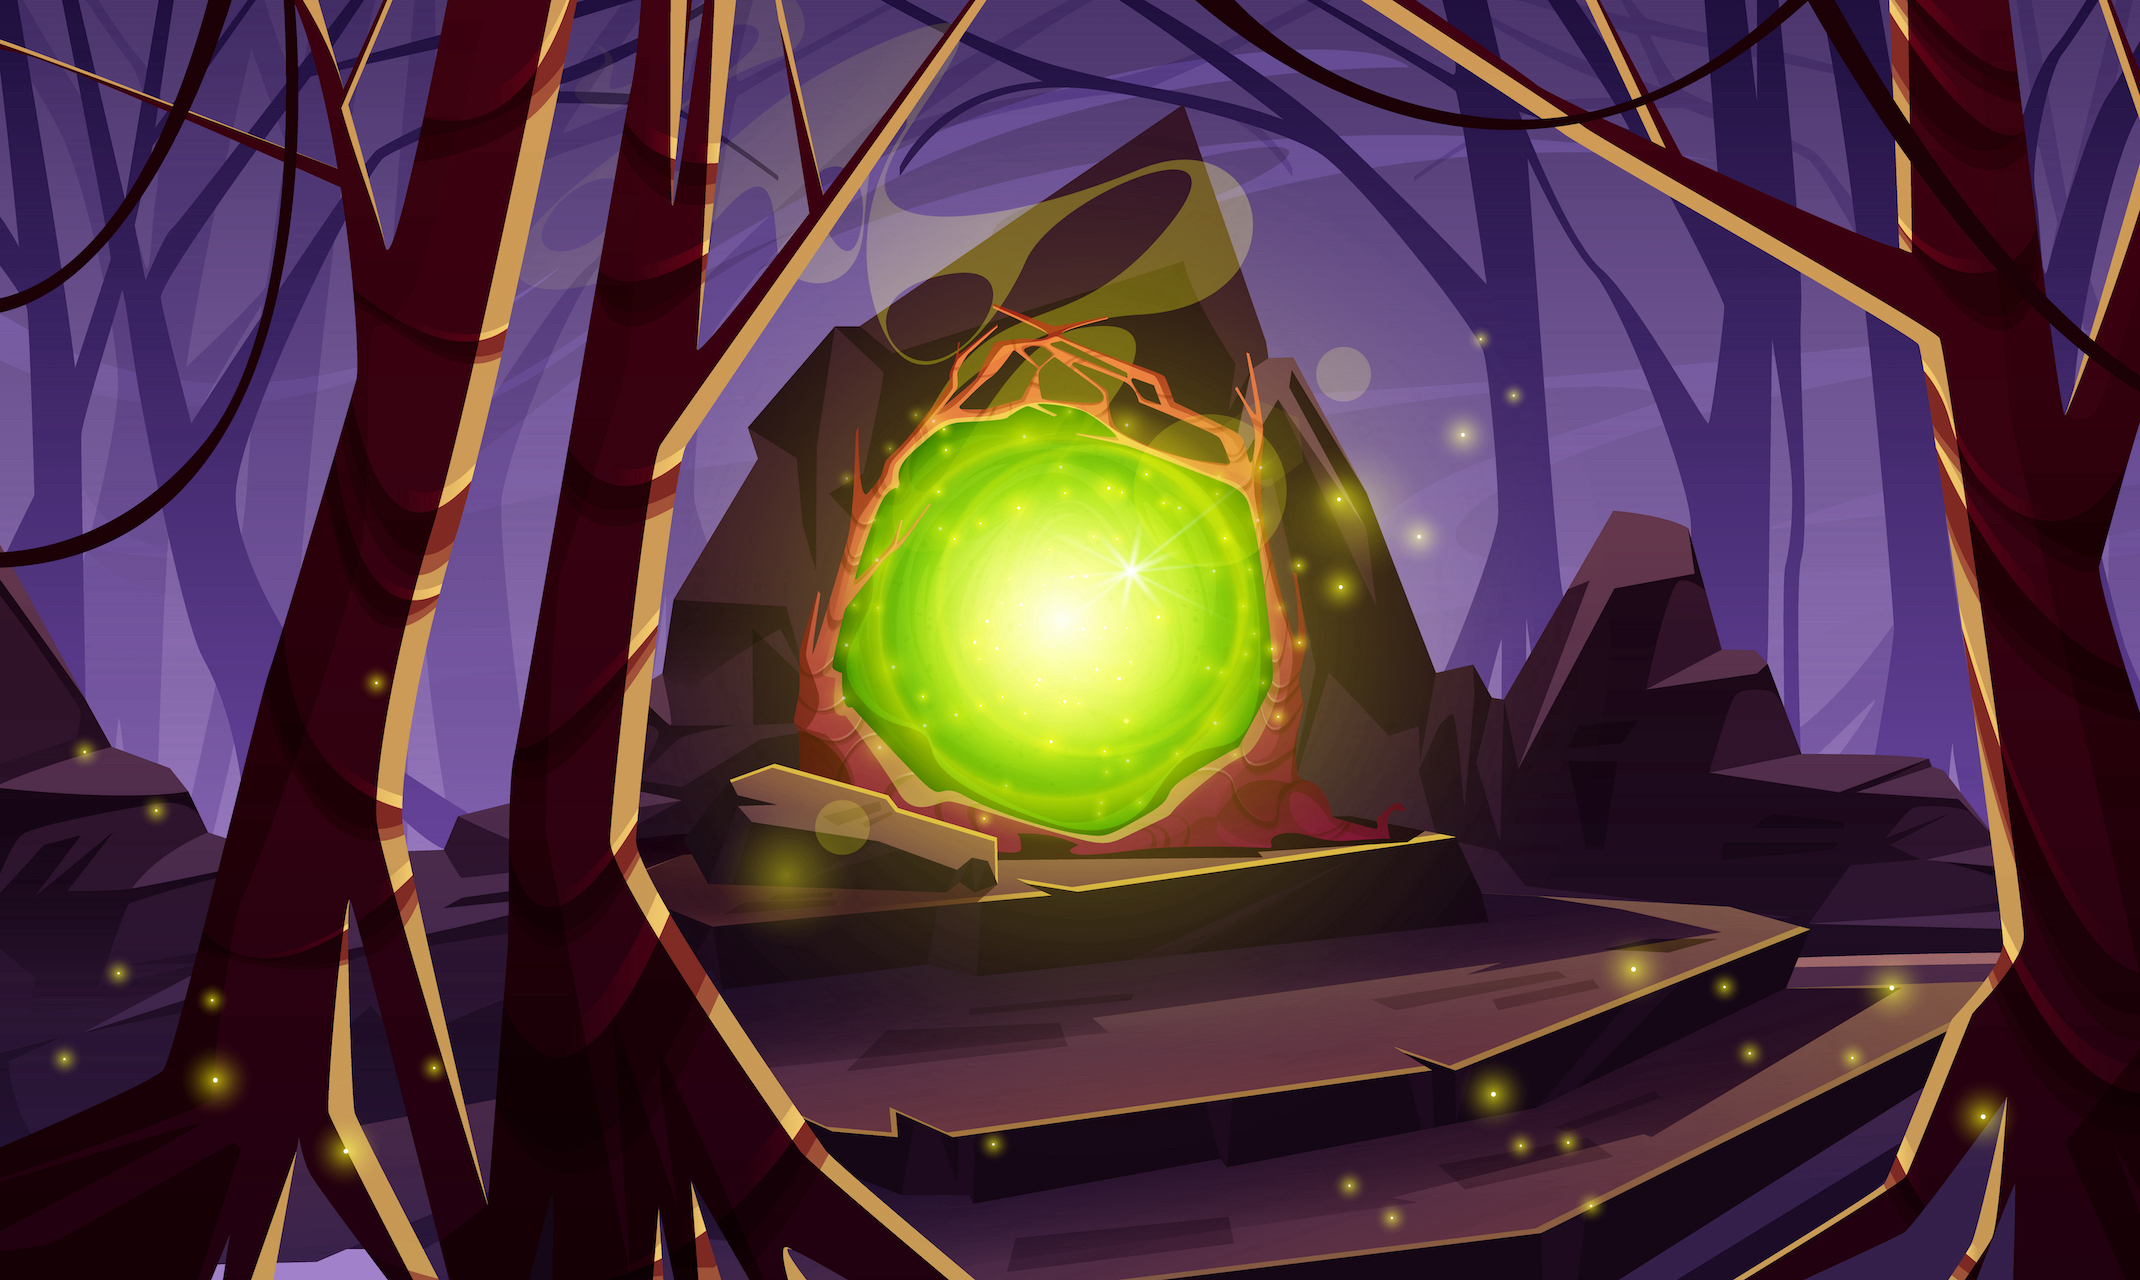
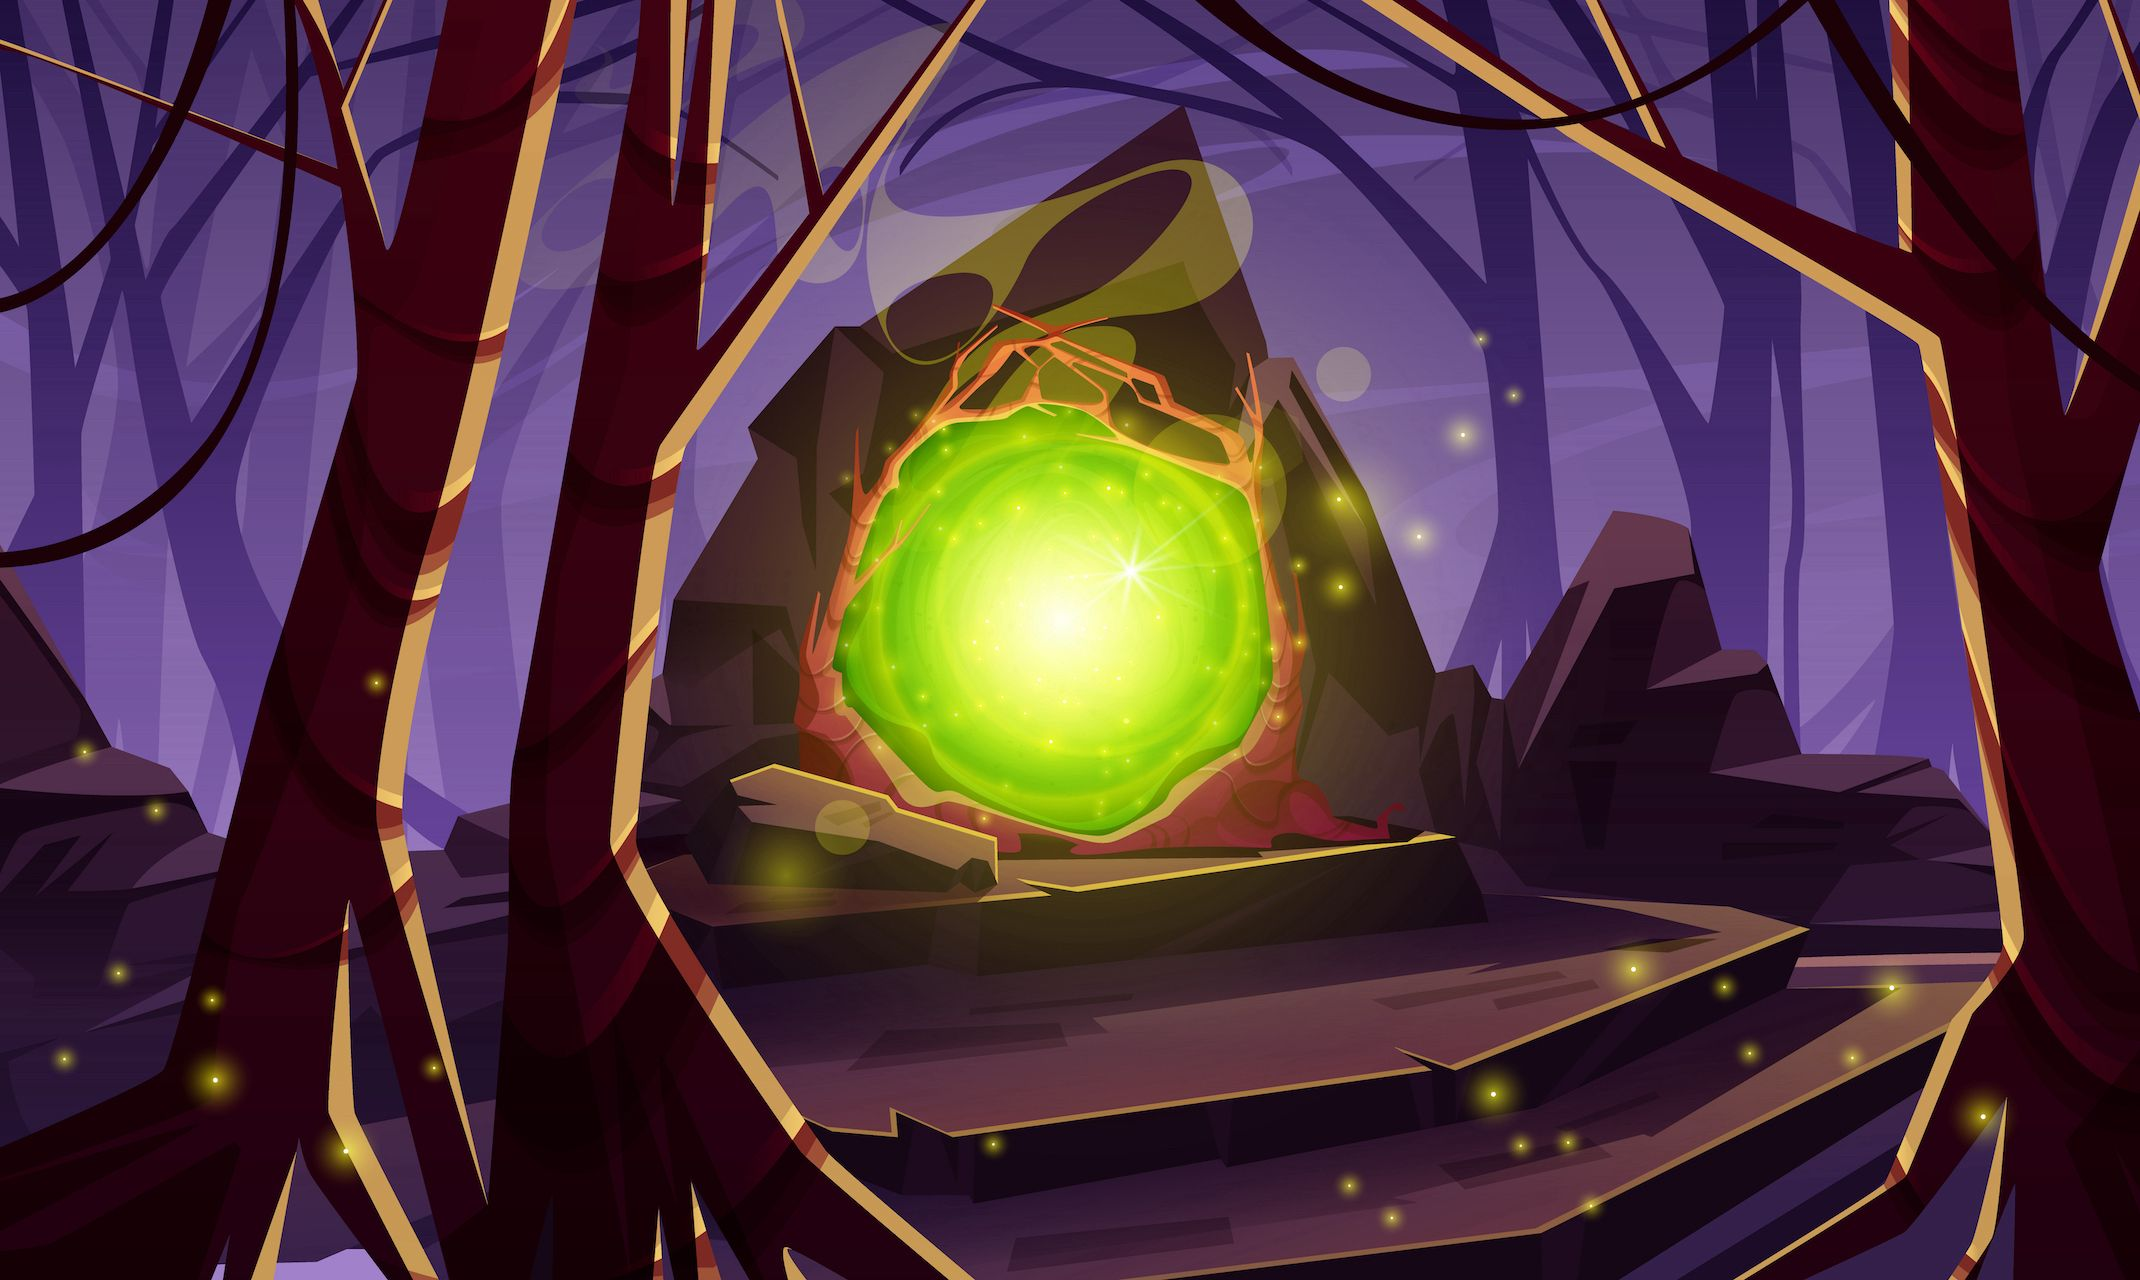
Optimized maps

diff --git a/src/common/utils.ts b/src/common/utils.ts
@@ -226,7 +226,7 @@ export const getBg = (areaId: number, blur = false) => {
         default:
             break;
     }
-    return `/assets/${folder}/${name}_bg.png`;
+    return `/assets/${folder}/${name}_bg.jpg`;
 }
 
 export const getAreaName = (areaId: number, blur = false) => {
